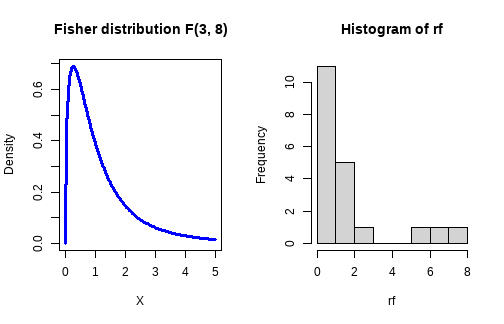
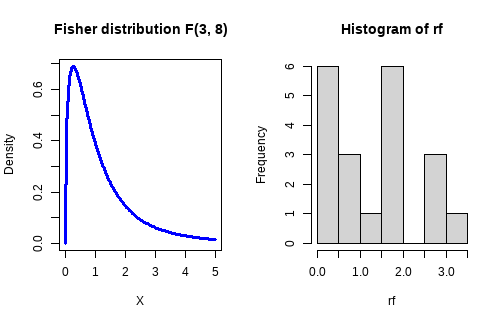
Add files via upload

diff --git a/5_week/5_week_pe.html b/5_week/5_week_pe.html
@@ -103,7 +103,7 @@ x
 ```
 
 ```
-## [1] 1 1
+## [1] 5 2
 ```
 
 ``` r
@@ -111,7 +111,7 @@ sum(x)
 ```
 
 ```
-## [1] 2
+## [1] 7
 ```
 
 
@@ -124,8 +124,8 @@ x1
 
 ```
 ##      [,1] [,2] [,3] [,4] [,5] [,6] [,7] [,8] [,9] [,10]
-## [1,]    5    3    4    4    2    5    6    6    4     6
-## [2,]    2    1    4    2    2    4    1    1    4     3
+## [1,]    1    6    1    5    3    2    2    6    6     1
+## [2,]    2    1    6    1    6    2    2    4    4     6
 ```
 &lt;div&gt;
 ---
@@ -146,8 +146,8 @@ x2
 
 ```
 ##      [,1] [,2] [,3] [,4] [,5] [,6] [,7] [,8] [,9] [,10]
-## [1,]    4    2    3    3    2    2    2    3    1     5
-## [2,]    2    6    4    2    6    1    5    5    3     3
+## [1,]    5    4    4    6    4    2    1    2    5     4
+## [2,]    6    2    1    3    2    4    3    1    4     4
 ```
 
 
@@ -158,7 +158,7 @@ s2
 ```
 
 ```
-##  [1] 6 8 7 5 8 3 7 8 4 8
+##  [1] 11  6  5  9  6  6  4  3  9  8
 ```
 &lt;div&gt;
 ---
@@ -353,7 +353,7 @@ tri
 ```
 
 ```
-## [1] 2480
+## [1] 2446
 ```
 
 ``` r
@@ -361,7 +361,7 @@ tri/j
 ```
 
 ```
-## [1] 0.248
+## [1] 0.2446
 ```
 ---
 &lt;div style="margin-top: 20px;"&gt;&lt;/div&gt;
@@ -475,7 +475,7 @@ Aplikácie v E:
 - akumulácia veličiny `\(y(t)\)` v čase: `\(\displaystyle \int_{t_1}^{t_2} y(t) dt\)`
 &lt;br&gt;
 &lt;br&gt;
-- plocha pod [Lorenzovou krivkou](https://en.wikipedia.org/wiki/Lorenz_curve): `\(\color{blue}{\displaystyle \, \int_{0}^{1} x^2 dx\,=\,\left[ \frac{x^3}{3} \right]_0^1 = \frac{1^3}{3}-\frac{0^3}{3}\, = \,1}\)`
+- plocha pod [Lorenzovou krivkou](https://en.wikipedia.org/wiki/Lorenz_curve): `\(\color{blue}{\displaystyle \, \int_{0}^{1} x^2 dx\,=\,\left[ \frac{x^3}{3} \right]_0^1 = \frac{1^3}{3}-\frac{0^3}{3}\, = \,\frac{1}{3}}\)`
 ---
 ##Hustota pravdepodobnosti (PDF)
 [dif. počet] `\(\rightarrow \;\)` Skúmame NP `\(X\;\)` v okolí hodnoty `\(x\)`.
@@ -637,7 +637,7 @@ m = 20; rf = rf(m,3,8); cat("priemer =", mean(rf)); hist(rf)
 ```
 
 ```
-## priemer = 1.716729
+## priemer = 1.353168
 ```
 
 ![](5_week_pe_files/figure-html/unnamed-chunk-11-1.png)&lt;!-- --&gt;
